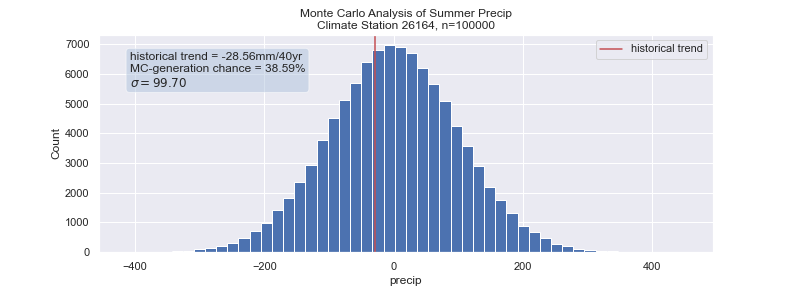
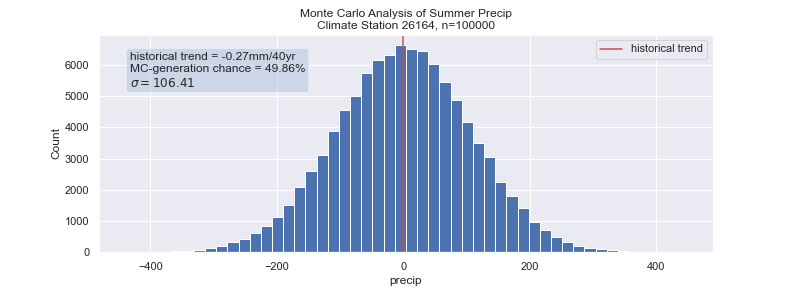
Edited MCA precip code and generated MCA graphs/coefData

diff --git a/taap_mca_seasonalSum.py b/taap_mca_seasonalSum.py
@@ -75,7 +75,7 @@ startTime = dt.datetime.now()
 
 for key in keylist_mx:
        
-        df = dictSeasonPrecip[key]  # Set object name for ease of reading
+        dfKey = dictSeasonPrecip[key]  # Set object name for ease of reading
         lrcSdList = []              # reset SD list for each key and append to dictCoef
         lrcMeanList = []            # reset mean list for each key and append to dictCoef
         chanceList = []
@@ -83,9 +83,14 @@ for key in keylist_mx:
         for var in varsSum_mx:
 
             for s in range(len(seasons)):
-                
+                df = dfKey[dfKey.season == seasons[s]]
+
+                end = df.index.year[-1]
+                start = start = end - 39
+
+                dataset = df.loc[str(start):str(end)].precipSum.values.tolist()
                 # Select data from observed record for the iterator
-                dataset = df[df.season == seasons[s]].precipSum.tail(40).values.tolist()
+                #dataset = df[df.season == seasons[s]].precipSum.tail(40).values.tolist()
 
                 # Select observed linreg coef to plot on MCA distribution
                 obsCoef = dictCoef[key][dictCoef[key].season==seasons[s]]['coef'].values[0]
